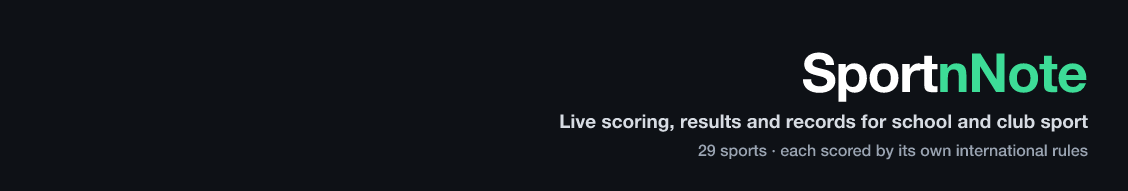
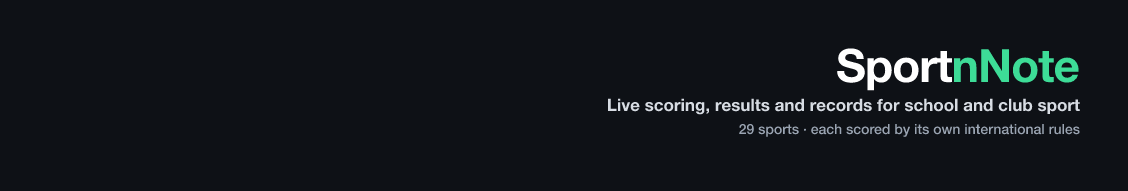
docs(marketing): @sportnnote handles created; LinkedIn cover re-centred
Instagram, Facebook, LinkedIn, YouTube, X and Threads are set up (status
table in docs/marketing/README.md → "Handles"); the WhatsApp Channel waits
for the company's own number. The LinkedIn cover keeps its text in the
middle band, which LinkedIn never crops.

Changed region(s): [[0.4965, 0.2356, 0.9619, 0.7068], [0.6206, 0.7592, 0.9619, 0.8377]]

diff --git a/docs/marketing/README.md b/docs/marketing/README.md
@@ -1,6 +1,6 @@
 # docs/marketing: social content for LinkedIn, Instagram and YouTube
 
-Ready-to-post drafts for SportnNote's social channels (@sportnnote, handles not created yet). The repo files are the source of truth. The Claude Doc "SportnNote social launch roadmap" (https://claude.ai/code/artifact/0ddd65b3-bb12-4401-8a6c-db30e8638b54) holds the strategy and a summary of this calendar.
+Ready-to-post drafts for SportnNote's social channels (@sportnnote — created 2026-10-24 on Instagram, Facebook, LinkedIn, YouTube, X and Threads; see "Handles" below). The repo files are the source of truth. The Claude Doc "SportnNote social launch roadmap" (https://claude.ai/code/artifact/0ddd65b3-bb12-4401-8a6c-db30e8638b54) holds the strategy and a summary of this calendar.
 
 **Nothing here has been posted.** Every file is a draft until the founder approves it.
 
@@ -57,7 +57,22 @@ A post marked "only if SDxxx is in the live build" stays unscheduled until that 
 - **Never record the dev seed's FIFA World Cup replay data:** it uses real footballers' names.
 - **On screen:** a small "Demo data" label for the whole clip. Do Not Disturb on, and demo phone numbers only.
 
-## Up next: handles, then paid promotion
+## Handles (created 2026-10-24)
+
+| Platform | Handle / URL | Set up |
+|---|---|---|
+| Instagram | instagram.com/sportnnote | Business account, category Software, logo, bio, link sportnnote.in; no address or phone shown |
+| Facebook | facebook.com/sportnnote | Page in the existing **SportnNote** Meta business portfolio (the one that owns the WhatsApp Business accounts), category Software, logo + cover, 93-character bio; data sharing off |
+| LinkedIn | linkedin.com/company/sportnnote | Company page: logo, cover, tagline, Overview, Software Development, 2–10 |
+| YouTube | youtube.com/@sportnnote | Brand Account channel: picture, banner, description, links to the other four, country India |
+| X | x.com/sportnnote | Professional (Business), category Software; picture, header, bio, link; reserve only |
+| Threads | threads.net/@sportnnote | From the Instagram account; public; reserve only |
+| WhatsApp Channel | — | **Waiting for the company's own number** (WhatsApp Business app on a new SIM, kept separate from the WhatsApp Business API number used for sign-in codes) |
+| TikTok | — | Not available in India; reserve later from an international market |
+
+Still to confirm by the founder: Instagram connected in the Meta business portfolio; the founder's own profile is a full-control admin of the Facebook Page and the portfolio; YouTube "not made for kids" and phone verification. Brand kit: `docs/marketing/brand-kit/`.
+
+## Up next: paid promotion (handles done)
 
 **Founder, 13 Oct 2026:** the next session starts with **creating the social handles** (the priority task), followed by a **discussion on paid promotion** for the international posts. The content agent doesn't create accounts; the founder does, from the company's own email. This checklist is ready so that session can start fast.
 
@@ -81,7 +96,7 @@ A post marked "only if SDxxx is in the live build" stays unscheduled until that 
   - YouTube description: `How-tos for scoring 29 sports and running sports days, leagues and tournaments on SportnNote. Some videos use an AI presenter and voice; we always say so in the description. Guides: sportnnote.in/guides`
 - **Account hygiene:** sign up with a company address (e.g. a shared social@ mailbox on the company domain), not a personal one; two-factor authentication on every account; record who holds admin access in the company's own password manager (never in this repo or in chat).
 - **Category and contact:** "Software" everywhere (Instagram has no "App page"); contact button = the support email on sportnnote.in/support/. No phone number on public profiles.
-- **Before the first post:** the handles are reserved and the profiles complete, but nothing is posted until a post is Approved (see Approval flow). Update "@sportnnote (handles not created yet)" at the top of this README and in the calendar once they exist.
+- **Before the first post:** the handles are reserved and the profiles complete (2026-10-24, see "Handles"), but nothing is posted until a post is Approved (see Approval flow).
 
 ### Paid promotion: points for the discussion
 - Which posts: the international how-tos and trust posts are the evergreen candidates; launch-week India posts are organic.
